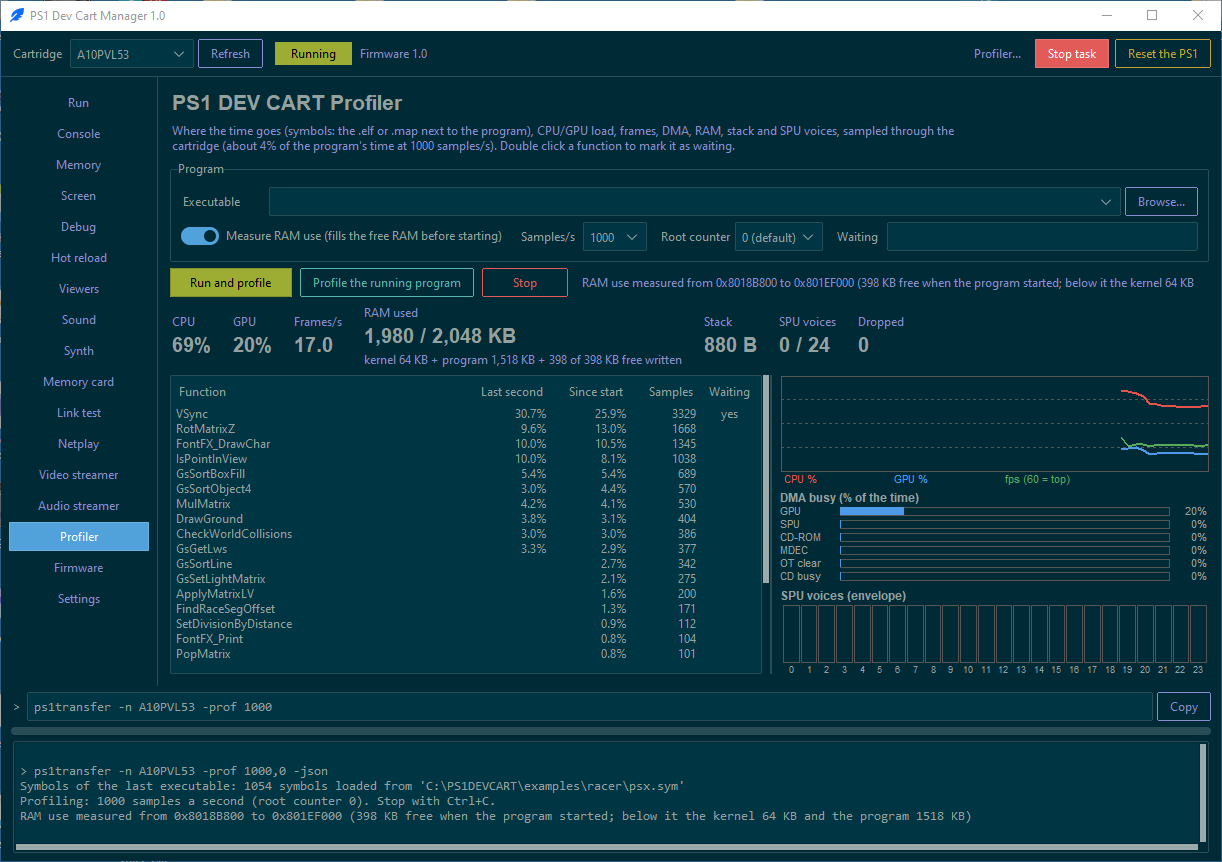
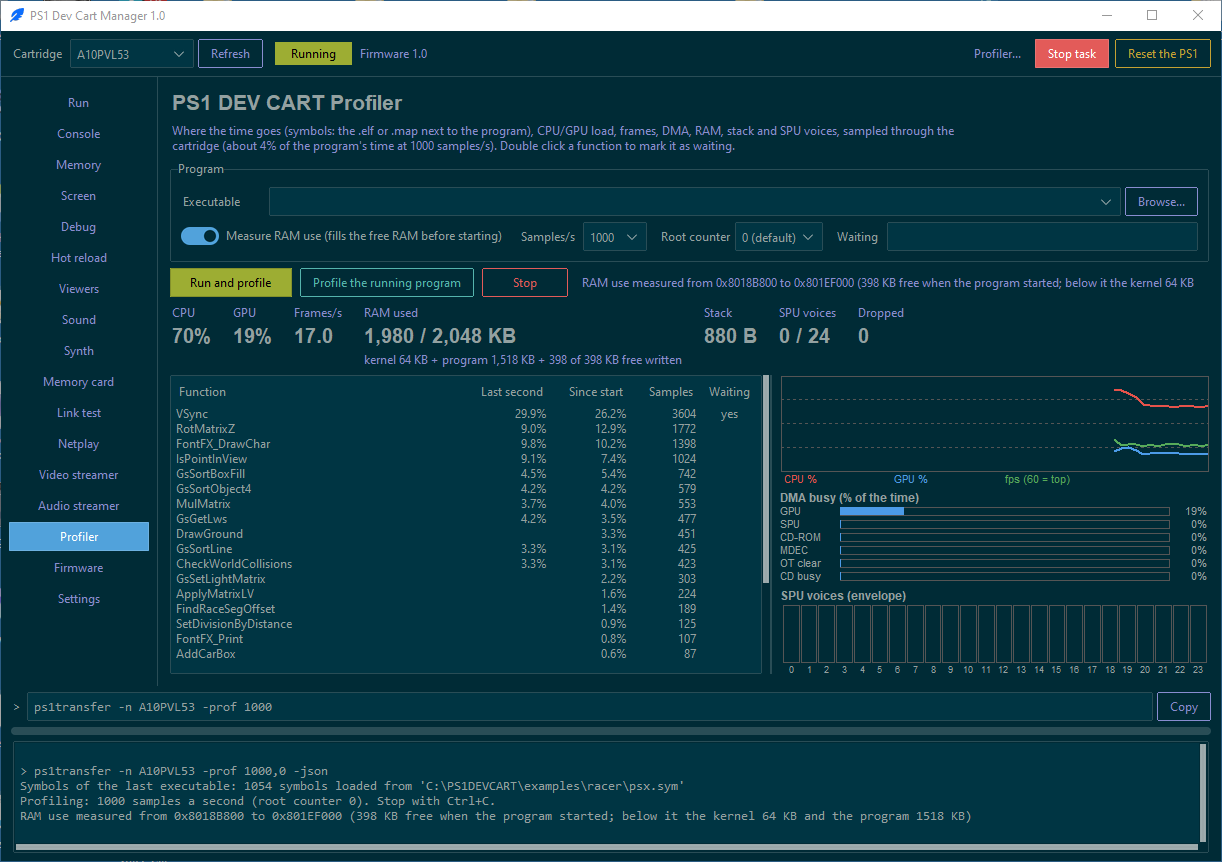
Profiler page: figures aligned at the top; profiler screenshot retaken

diff --git a/gui/pages/profiler.py b/gui/pages/profiler.py
@@ -78,7 +78,7 @@ class ProfilerPage(Page):
         for key, text in (("cpu", "CPU"), ("gpu", "GPU"), ("fps", "Frames/s"), ("ram", "RAM used"),
                           ("stack", "Stack"), ("spu", "SPU voices"), ("dropped", "Dropped")):
             cell = tb.Frame(stats, padding=(0, 0, 18, 0))
-            cell.pack(side="left")
+            cell.pack(side="left", anchor="n")     # (top: the RAM cell has a third line)
             tb.Label(cell, text=text, bootstyle="secondary").pack(anchor="w")
             self.values[key] = tb.Label(cell, text="-", font=("", 15, "bold"))
             self.values[key].pack(anchor="w")
